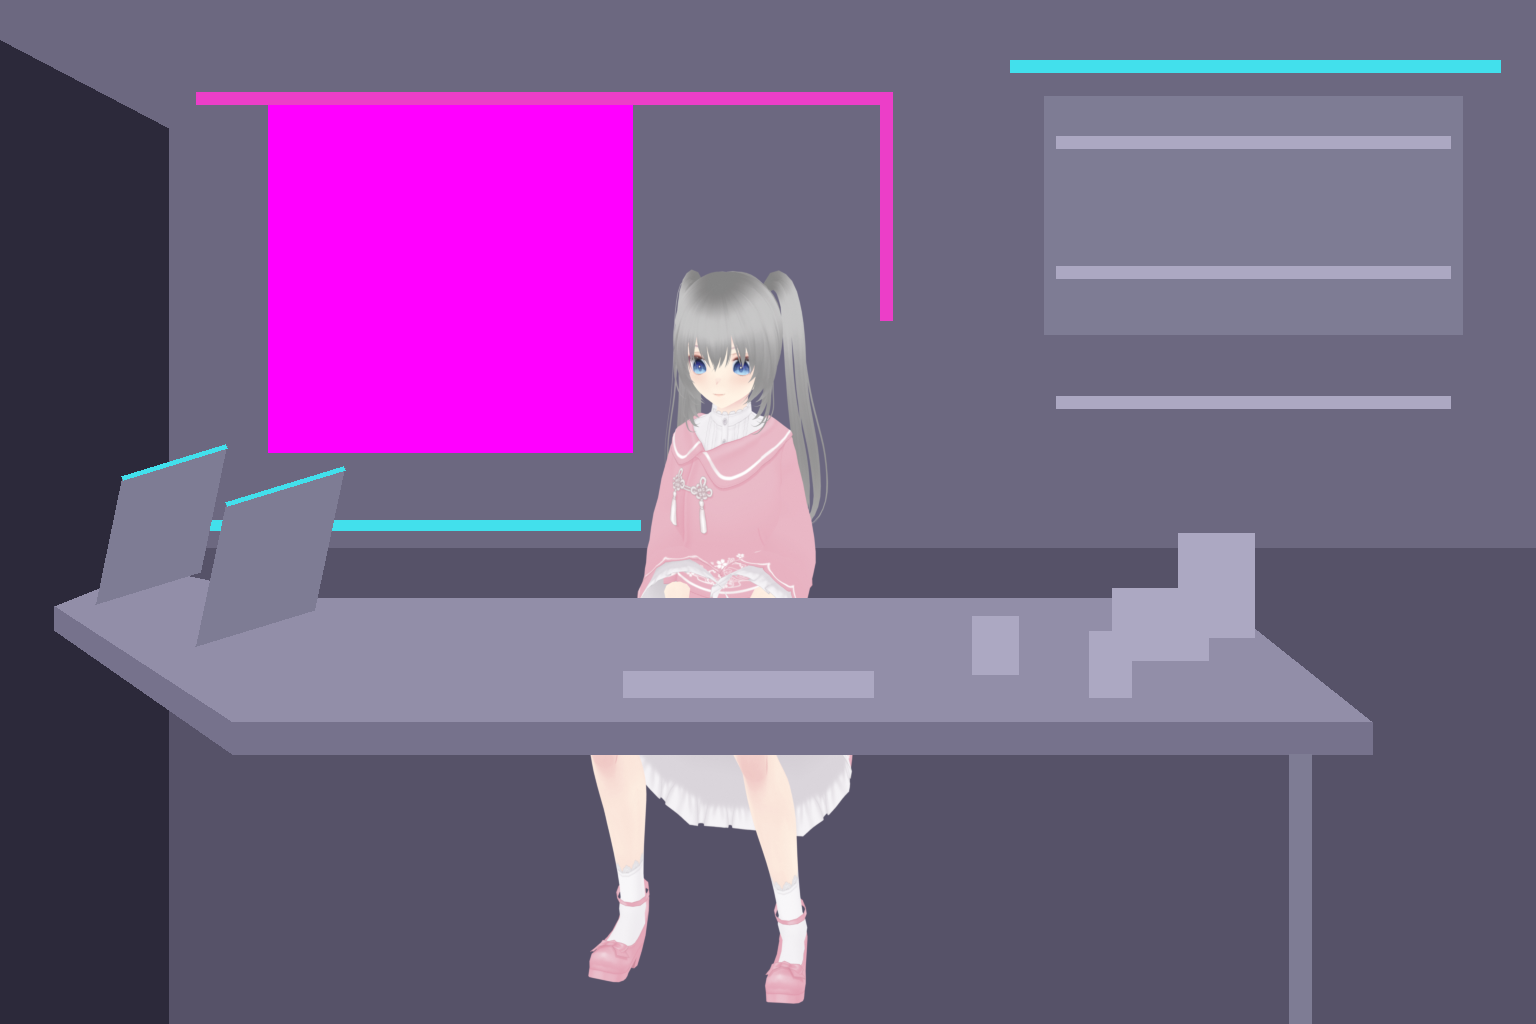
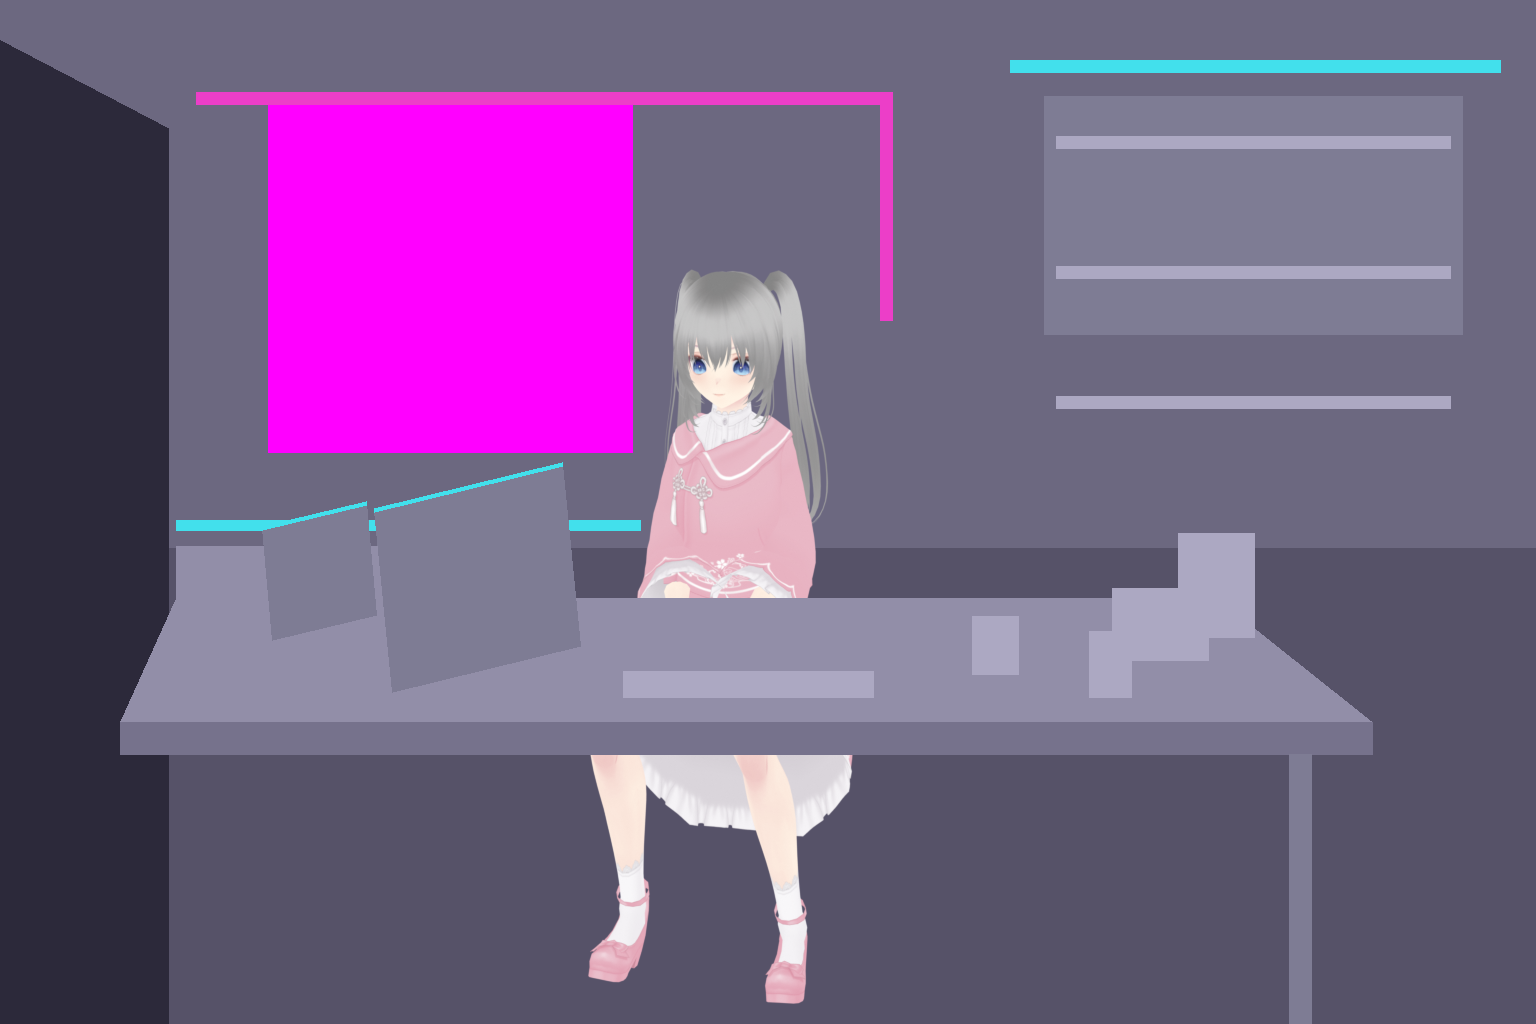
改成工位布局：回折台挪到她身边，加一块大屏
用户要求：短边要靠到她那一侧（像公司工位）、屏幕对着人、面前要有大屏。

- 回折台从左后角挪到紧挨她左边（x 176–566），右端顶到她左缘 599
- 她左前方加一块大屏（x 374–580），左边一块小的（x 262–376），
  两块都斜着朝她约 45°，镜头能看见一部分屏幕内容
- 屏幕一个像素都不压到她：她那几列的桌面遮罩从 y=598 才开始，
  而她露在 277–598

大屏没法放正前方——量过，一块正常大小的显示器立在她面前会从桌沿盖到下巴，
她只剩 y 277–598 这一段露在外面。所以放左前方。

MONITOR_EDGE_X 340 → 585，只剩 9px 余量（键盘左缘 594）；
measure_hands 仍然 ✓。挑候选的判据落成 Scripts/pick.py。

Changed region(s): [[0.0312, 0.4375, 0.375, 0.75]]

diff --git a/Scripts/blocking.py b/Scripts/blocking.py
@@ -26,13 +26,16 @@ W, H = 1536, 1024
 # 回折臂是这版构图的纵深来源——否则窗户/人/货架一字排开，
 # 整个房间会像一堵贴了东西的平墙。
 #
-# **回折臂朝里退，不朝镜头伸**（用户画图指定）：它从主台面左端往画面左上方
-# 斜进去，贴着左墙退到左后角。原来是反的——朝镜头伸，一路铺到画幅底边，
-# 占掉整个左下角。
+# **回折臂朝里退，不朝镜头伸**（用户画图指定）：它不再一路铺到画幅底边，
+# 而是退到主台面**后面**、成为台子更深的那一段。
+#
+# **而且它要靠到她那一侧**（"就像公司那种工位"）：臂占 x 176–566，
+# 右端顶到她左边（她占 x 599–844），她坐在内转角、一转身就能用。
+# 原来臂缩在左后角（x 54–296），离她半个画面，读不出工位的意思。
 #
 # 朝里退的代价是**被透视压扁**：同样一条臂，朝镜头来是越走越大，
-# 朝里退是越走越小。所以它现在是贴着左墙的一条窄台、位置比主台面高一点
-# （离地平线近），面积比原来小得多。这是透视算出来的，不是画小了。
+# 朝里退是越走越小。所以它现在只是主台面上方一段浅浅的加深，
+# 面积比原来小得多。这是透视算出来的，不是画小了。
 #
 # 桌子整体抬高约 9%：桌沿到画面底边的空间从 33% 提到 41%。
 # 之前腿一放直脚就出画，那不是姿势调不好，是桌下根本塞不下她从胯到脚的长度。
@@ -40,10 +43,12 @@ HORIZON = 548
 MAIN_FAR_Y, MAIN_NEAR_Y = 598, 722          # 主台面的远近边
 MAIN_FAR = (296, 1216)
 MAIN_NEAR = (232, 1372)
-# 回折臂退到左后角的那一端：远边、近边各自的落点。
-# 两条边都往地平线（y=548）收，中间那条端面就是臂的尽头。
-RETURN_FAR = (150, 568)                      # 臂的远边尽头
-RETURN_NEAR = (54, 606)                      # 臂的近边尽头
+ARM_FAR_Y = 546                              # 回折臂的远边（贴后墙那条）
+ARM_X = (176, 566)                           # 臂在远边上的左右端
+# 台面左端。**MAIN_FAR/MAIN_NEAR 只定道具坐标系**（`desk_point` 在它俩之间
+# 插值），动它等于把键盘、杯子、平板全挪一遍，所以左端另开两个常数。
+# 左端要跟臂的左端对齐，不然臂会悬在主台面外面、看着是块浮空的板。
+EXT_FAR_X, EXT_NEAR_X = 176, 120
 DESK_LIP = 32
 LEG_X = (1300,)                              # 只画右前腿；左边那条臂退在里面，腿看不见
 LEG_W = 22
@@ -70,16 +75,23 @@ MAIN_PROPS = [
     ("tablet",   0.87, 0.50, 96, 72),
     ("plant",    0.95, 0.32, 76, 104),
 ]
-# 回折臂上的显示器。**侧对着她**，所以镜头看到的是机背——
-# 画成正面矩形就成了"电脑对着观众"，很怪；屏幕内容本来也就看不见，
-# 因此这里不留品红，画面里唯一的品红只有窗户。
+# 显示器：她面前偏左那块大屏 + 回折臂上两块小的。
+# 三块都**斜着朝她**（约 45°），不是正对镜头也不是全背对——
+# 这样既读得出是给她看的，镜头也能看见一部分屏幕内容
+# （往后"屏幕跟播放状态联动发光"那个待办要靠这个才做得了）。
 #
-# 臂退到里面之后它们跟着变小、上移。两条硬线：
-# **右缘留在 x≈330 以内**（`measure_hands.MONITOR_EDGE_X`，第 40 条），
-# **顶别顶进窗洞**（窗洞底边 y=452，臂上的东西都在它下面）。
+# 三条硬线：
+# - **右缘全部留在 x≤580**。键盘左缘在 594，越过去键盘就穿进屏幕里
+#   （第 40 条）。`measure_hands.MONITOR_EDGE_X` 量的就是这个数
+# - **别碰她**。她占 x 599–844、脸在 y 277–440。大屏收在 x≤580，
+#   所以一个像素都不压到她
+# - **顶别顶进窗洞**（窗洞底边 y=452）
+#
+# 屏幕内容不留品红——画面里唯一的品红是窗户，`cut_scene.window_rect`
+# 认的是最大那块。
 SCREENS = [
-    dict(foot=(96, 604), w=104, h=126, lean=26),
-    dict(foot=(196, 646), w=118, h=142, lean=30),
+    dict(foot=(392, 692), w=188, h=182, lean=-18),   # 她左前方那块大屏
+    dict(foot=(272, 640), w=104, h=112, lean=-10),   # 大屏左边那块小的
 ]
 
 
@@ -94,24 +106,26 @@ def desk_point(u, v):
 def desk_surface():
     """L 形台面的多边形。
 
-    顺时针：回折臂的远边尽头 → 主台面远边 → 右端 → 近边 → 回到左端
-    → 沿回折臂的近边退回尽头。臂朝里退，所以它整段都在主台面近边**之上**。
+    顺时针：回折臂的远边（贴墙那条，只占 ARM_X 这一段）→ 臂的右端面落到
+    主台面远边 → 主台面远边右端 → 近边右端 → 近边左端 → 主台面远边左端
+    → 臂的左端面回到起点。
+
+    臂朝里退，所以它整段都在主台面远边**之上**，读起来是"她左手边那段
+    台子更深一点"——工位的回折台就是这个样子。
     """
-    return [(RETURN_FAR[0], RETURN_FAR[1]),
-            (MAIN_FAR[0], MAIN_FAR_Y), (MAIN_FAR[1], MAIN_FAR_Y),
-            (MAIN_NEAR[1], MAIN_NEAR_Y), (MAIN_NEAR[0], MAIN_NEAR_Y),
-            (RETURN_NEAR[0], RETURN_NEAR[1])]
+    return [(ARM_X[0], ARM_FAR_Y), (ARM_X[1], ARM_FAR_Y),
+            (ARM_X[1], MAIN_FAR_Y), (MAIN_FAR[1], MAIN_FAR_Y),
+            (MAIN_NEAR[1], MAIN_NEAR_Y), (EXT_NEAR_X, MAIN_NEAR_Y),
+            (EXT_FAR_X, MAIN_FAR_Y)]
 
 
 def draw_desk(d, top, lip, leg):
     d.polygon(desk_surface(), fill=top)
-    # 桌沿厚度：主台面整条近边，加上回折臂的近边（臂退在里面，看得到它的沿）
-    d.polygon([(MAIN_NEAR[0], MAIN_NEAR_Y), (MAIN_NEAR[1], MAIN_NEAR_Y),
+    # 桌沿厚度只画主台面那条近边。臂和主台面是同高的两段台子拼在一起，
+    # 中间那道只是拼缝，不是沿
+    d.polygon([(EXT_NEAR_X, MAIN_NEAR_Y), (MAIN_NEAR[1], MAIN_NEAR_Y),
                (MAIN_NEAR[1], MAIN_NEAR_Y + DESK_LIP),
-               (MAIN_NEAR[0], MAIN_NEAR_Y + DESK_LIP)], fill=lip)
-    d.polygon([(RETURN_NEAR[0], RETURN_NEAR[1]), (MAIN_NEAR[0], MAIN_NEAR_Y),
-               (MAIN_NEAR[0], MAIN_NEAR_Y + DESK_LIP),
-               (RETURN_NEAR[0], RETURN_NEAR[1] + DESK_LIP * 3 // 4)], fill=lip)
+               (EXT_NEAR_X, MAIN_NEAR_Y + DESK_LIP)], fill=lip)
     # 前腿。桌下必须留空——能看见她的腿是这版构图的全部意义。
     for x in LEG_X:
         d.rectangle([x - LEG_W // 2, MAIN_NEAR_Y + DESK_LIP, x + LEG_W // 2, H], fill=leg)
@@ -124,10 +138,10 @@ def draw_props(d, solid=None):
     for s in SCREENS:
         x, y = s["foot"]
         w, h, lean = s["w"], s["h"], s["lean"]
-        # 底边贴在回折臂上（臂朝左上方退，所以底边往左上斜），面板竖起来
-        # 并向右让开一点：读起来就是一台立着的显示器，屏幕朝她、机背朝我们
-        quad = [(x, y), (x + w, y - w * 0.30),
-                (x + w + lean, y - w * 0.30 - h), (x + lean, y - h)]
+        # 底边顺着台面往右后方斜；`lean` 为负＝顶往左让，面板于是**斜着朝她**
+        # （她在右边），镜头从左前方看过去能看见一部分屏幕
+        quad = [(x, y), (x + w, y - w * 0.24),
+                (x + w + lean, y - w * 0.24 - h), (x + lean, y - h)]
         d.polygon(quad, fill=solid or C_METAL)
         if solid is None:
             d.line([quad[3], quad[2]], fill=C_NEON_B, width=5)   # 机背上沿透出的辉光

diff --git a/Scripts/pick.py b/Scripts/pick.py
@@ -1,0 +1,139 @@
+#!/usr/bin/env python3
+"""从 codex 给的几张候选里挑一张——**用判据挑，不用眼睛挑**（第 52 条）。
+
+    python3 pick.py 候选1.png 候选2.png ...
+
+几张候选肉眼往往差不多，量下来差别很明显。而且"必须原样保留"的清单
+得**逐条量过去**——上次没量左墙那颗水晶，前两张里它就没了。
+
+每张报四组：
+- 窗洞漂移（`cut_scene.window_rect` 要找得到、位置要对得上）
+- 主桌桌沿中位漂移（键盘的 3D 位置是从那一行反推的）
+- 保留清单里每件东西的互相关位移和相关系数（位移非 0 或相关低 = 动了/丢了）
+- 硬边界：新画的东西有没有越过 x=580、有没有压到她（x≥599）
+"""
+import os
+import sys
+
+import numpy as np
+from PIL import Image
+
+sys.path.insert(0, "Scripts")
+from cut_scene import window_rect
+from scene_drift import desk_edge
+
+BASE = "Art/scene_rich.png"
+MASK = "Art/blocking/mask_desk.png"
+MAGENTA = (265, 105, 632, 453)
+HER_X0 = 599                 # 她的左缘
+# 屏幕右缘的**硬边界就是键盘左缘**（`measure_hands` 报的那个数，现在 594）：
+# 键盘和手画在桌面层之上，屏幕越过去就是键盘穿进屏幕里（第 40 条）。
+# 灰模里把屏幕摆在 580，留的就是这十来像素余量。
+EDGE_LIMIT = 594
+
+# 「必须原样保留」的清单。名字 → 画布矩形。**这份清单就是判据本身**，
+# 加了新的要保留的东西就往这儿加一行，否则它迟早会在某一版里悄悄消失。
+KEEP = {
+    "马克杯": (950, 595, 1030, 690),
+    "手机架": (1060, 590, 1150, 700),
+    "平板":   (1150, 600, 1240, 680),
+    "多肉":   (1230, 585, 1320, 700),
+    "椅子":   (650, 455, 850, 610),
+    "层架":   (1040, 90, 1470, 340),
+    "落地灯": (1400, 450, 1520, 810),
+    "左墙水晶": (40, 470, 130, 590),
+    "海报墙": (640, 90, 900, 340),
+}
+
+
+def stamped(path):
+    a = np.asarray(Image.open(path).convert("RGB")).copy()
+    x0, y0, x1, y1 = MAGENTA
+    a[y0:y1, x0:x1] = (255, 0, 255)
+    return a
+
+
+def shift(o, c, box, r=5):
+    x0, y0, x1, y1 = box
+    t = o[y0:y1, x0:x1].astype(np.float32); t = t - t.mean()
+    best = (None, -9.0)
+    for dy in range(-r, r + 1):
+        for dx in range(-r, r + 1):
+            p = c[y0 + dy:y1 + dy, x0 + dx:x1 + dx].astype(np.float32)
+            p = p - p.mean()
+            den = np.sqrt((t ** 2).sum() * (p ** 2).sum())
+            if den == 0:
+                continue
+            v = float((t * p).sum() / den)
+            if v > best[1]:
+                best = ((dx, dy), v)
+    return best
+
+
+def main():
+    mask = np.asarray(Image.open(MASK).convert("L"))
+    base_im = Image.open(BASE).convert("RGB")
+    base_l = np.asarray(base_im.convert("L"))
+    r0, _ = window_rect(base_im)
+    e0 = desk_edge(base_im, mask)
+
+    rows = []
+    for path in sys.argv[1:]:
+        a = stamped(path)
+        im = Image.fromarray(a)
+        name = os.path.basename(path)
+
+        r1, _ = window_rect(im)
+        win = max(abs(b - x) for x, b in zip(r0, r1)) if (r0 and r1) else 999
+
+        e1 = desk_edge(im, mask)
+        idx = np.arange(len(e0))
+        ok = (e0 >= 0) & (e1 >= 0) & (idx >= 620)      # 只看主桌那一段
+        desk = float(np.median(np.abs(e1[ok] - e0[ok]))) if ok.sum() else 999
+
+        cl = np.asarray(im.convert("L"))
+        keeps = {k: shift(base_l, cl, box) for k, box in KEEP.items()}
+        worst = min(v for _, v in keeps.values())
+        moved = [k for k, (d, _) in keeps.items() if d != (0, 0)]
+
+        # 显示器右缘：这是**硬边界**，键盘和手的左缘不能越过它（第 40 条）。
+        #
+        # **别拿"和原图差值大的最右列"去找它。** 整幅图是重新生成的，
+        # 逐像素都有差，那么找会满屏报警（我第一版就是这么写的，全军覆没）。
+        # 要量的是那个具体的量：桌面遮罩之内、显示器所在的行段里，
+        # **最靠右的强边缘**（第 48 条——别用"梯度最大的那一列"，
+        # 那报的是"谁最强"，冠军会换人）。
+        g = np.where(mask > 128, cl.astype(np.float32), np.nan)
+        edge = 0
+        for y in range(460, 705, 5):
+            d = np.nan_to_num(np.abs(np.diff(g[y, 150:600])))
+            st = np.where(d > 25)[0]
+            if len(st):
+                edge = max(edge, 150 + int(st.max()))
+
+        rows.append((name, win, desk, worst, moved, edge))
+
+    # 她压不压得到是**构造上**保证的，不用逐张量：桌面层画在她之上，
+    # 但她那几列（x 599–844）的遮罩从 y=598 才开始，而她露在外面的是
+    # y 277–598。所以只要遮罩不变，桌面层就够不着她。
+    her_top = min(np.where(mask[:, x] > 128)[0].min() for x in range(600, 845, 20))
+    print(f"（她那几列遮罩从 y={her_top} 起，她露在 277–598 —— "
+          f"{'压不到' if her_top >= 598 else '✗ 会压到她'}）")
+    print(f"{'候选':<16}{'窗洞':>6}{'桌沿':>7}{'最差相关':>9}{'显示器右缘':>11}  问题")
+    for name, win, desk, worst, moved, edge in sorted(
+            rows, key=lambda r: (r[1] > 12, r[5] > EDGE_LIMIT, r[2], -r[3])):
+        flags = []
+        if win > 12:
+            flags.append("✗窗洞")
+        if desk > 3:
+            flags.append("✗桌沿")
+        if edge > EDGE_LIMIT:
+            flags.append(f"✗右缘越过 {EDGE_LIMIT}，会和键盘打架")
+        if moved:
+            flags.append("挪了:" + ",".join(moved))
+        print(f"{name:<16}{win:>5}px{desk:>6.1f}px{worst:>9.2f}"
+              f"{edge:>11}  {' '.join(flags) or '✓'}")
+
+
+if __name__ == "__main__":
+    main()

diff --git a/Blender/measure_hands.py b/Blender/measure_hands.py
@@ -48,10 +48,12 @@ VRM = sys.argv[-1] if sys.argv[-1].endswith(".vrm") else "Snozzy.vrm"
 # **别用"梯度最大的那一列"**——那报的是"谁最强"，附近的东西一改冠军就换人，
 # 显示器根本没动数字也会跳（第 48 条）。
 #
-# 现在这一版：回折臂改成朝里退（第 51 条），显示器跟着退到左后角、也变小了。
-# rows 460–660、x∈[50,560] 量出来是 331，取整留点余量记 340。
-# 上一版是 580，往左让了 240 像素——键盘余量只增不减，所以键盘和手不用重渲。
-MONITOR_EDGE_X = 340
+# 现在这一版：回折臂挪到她身边、成了工位那种回折台，台上是一块大屏加一块小屏
+# （第 51 条）。rows 460–700、x∈[150,600] 量出来是 582，留点余量记 585。
+#
+# **这个数已经贴到键盘左缘（594）了，只剩 9 像素余量。** 再往右挪屏幕
+# 就会和键盘打架——改重绘图时这一条要先看。
+MONITOR_EDGE_X = 585
 
 
 def measure(press=0.0, side_first="L"):

diff --git a/HANDOFF.md b/HANDOFF.md
@@ -525,8 +525,8 @@ y=267 的头顶，腿根本影响不到那里。判据要改成**按阈值二值
 显示器的轮廓，加挡板只会把手指也切掉。所以这是一条**硬边界**，
 不是遮挡关系能救的：键盘和手的左缘必须整个待在显示器右缘右边。
 `measure_hands.py` 现在直接报这个数。**这条线会跟着重绘图变**——
-当时是 x≈580，回折臂改成朝里退、显示器退到左后角之后是 x≈340
-（第 51 条），换图必须按第 48 条的量法重量。
+当时是 x≈580，回折臂挪到她身边、台上换成一大一小两块屏之后是 x≈585
+（第 51 条），换图必须按第 48 条的量法重量。挑候选见 `Scripts/pick.py`。
 
 于是右腕那笔账只能靠别的还：把键盘收窄到 0.36（左缘让出 18 像素）、
 转角从 8° 收到 4°、再拿 `ELBOW_POLE` 去削。最后 25.7°/30.6°，
@@ -742,8 +742,26 @@ y=600 处 568、y=690 处 578，`MONITOR_EDGE_X = 580` 不用动。
 
 顺带：**这个房间里"朝里"的余量很小。** 主台面的远边 y=598，后墙墙脚 y≈764，
 台面是抬高的所以远边投影在墙脚**上方**——桌子背后那点地板基本被桌子挡光了。
-所以臂只能退成一条窄带（远边收到 (150,568)、近边收到 (54,606)）。
+所以臂只能退成一条浅浅的加深（远边收到 y=546），不可能有原来那么大一片。
 真想要一条大回折臂，只有朝镜头伸这一条路。
+
+而且**臂退得越远越读不出是回折臂**：它和主台面同高、共面，两段之间只有
+一道拼缝。第一版我把它退到左后角（x 54–296），离她半个画面，读起来就是
+"桌子左端被斜切了一刀"，完全不是工位。用户的原话是"要向人的那一侧靠，
+就像公司那种工位一样"——**臂得贴着她**（现在 x 176–566，右端顶到她左边
+x=599），她坐在内转角，这才读得出来。
+
+**臂上的东西也一样有位置约束**（这一版三条同时卡）：
+
+- 屏幕右缘全部 **≤580**：键盘左缘在 594，越过去键盘就穿进屏幕里（第 40 条）。
+  这一版只剩 9 像素余量了，再往右挪屏幕就得连键盘一起重算
+- 屏幕**别碰她**：她占 x 599–844。桌面层是画在她**之上**的，压过去就没人了
+- 屏幕顶**别顶进窗洞**（y=452 以下）：`cut_scene` 按品红的包围盒挖洞，
+  伸进去的部分会被整块挖掉
+
+**屏幕斜着朝她**（约 45°，`SCREENS` 的 `lean` 取负＝顶往左让）比正对镜头
+或者全背对都好：既读得出是给她看的，镜头也能看见一部分屏幕内容——
+"屏幕跟播放状态联动发光"那个待办要靠这个才做得了。
 
 **52. codex 会自己迭代出好几张候选，用判据挑，别用眼睛挑。** 这次它连出了
 `room_fixed` 和 `room_candidate1/2/3`。四张的几何都对，肉眼看差不多，
@@ -753,7 +771,16 @@ y=600 处 568、y=690 处 578，`MONITOR_EDGE_X = 580` 不用动。
 真正分出胜负的是一条**我差点没查的**：左墙那个小搁板上的水晶。
 前两张里它相关只有 0.19（等于没了），后两张 0.55（保住了）。
 **"必须原样保留"的清单，得逐条量过去**——没量的那条就是会丢的那条。
-最后取 candidate2。
+
+所以下一轮直接在提示里让它出三张（`room_v1/2/3`），挑的活儿归 `Scripts/pick.py`：
+窗洞、主桌桌沿、保留清单逐件的互相关、显示器右缘，一条命令报全。
+那一轮三张里 v2 的屏幕右缘跑到 598（越过键盘左缘 594），v3 的屏幕没画支架，
+取 v1。
+
+**这个脚本里有个坑**：整幅图是重新生成的，所以**逐像素都有差**，
+拿"差值 > 阈值"去找"新画上去的东西在哪"会满屏报警——我第一版就是这么写的，
+三张全报"越界"。要量的是**那个具体的量**（显示器右缘按第 48 条的量法），
+不是"哪里变了"。
 
 ## 四、验证纪律
 
